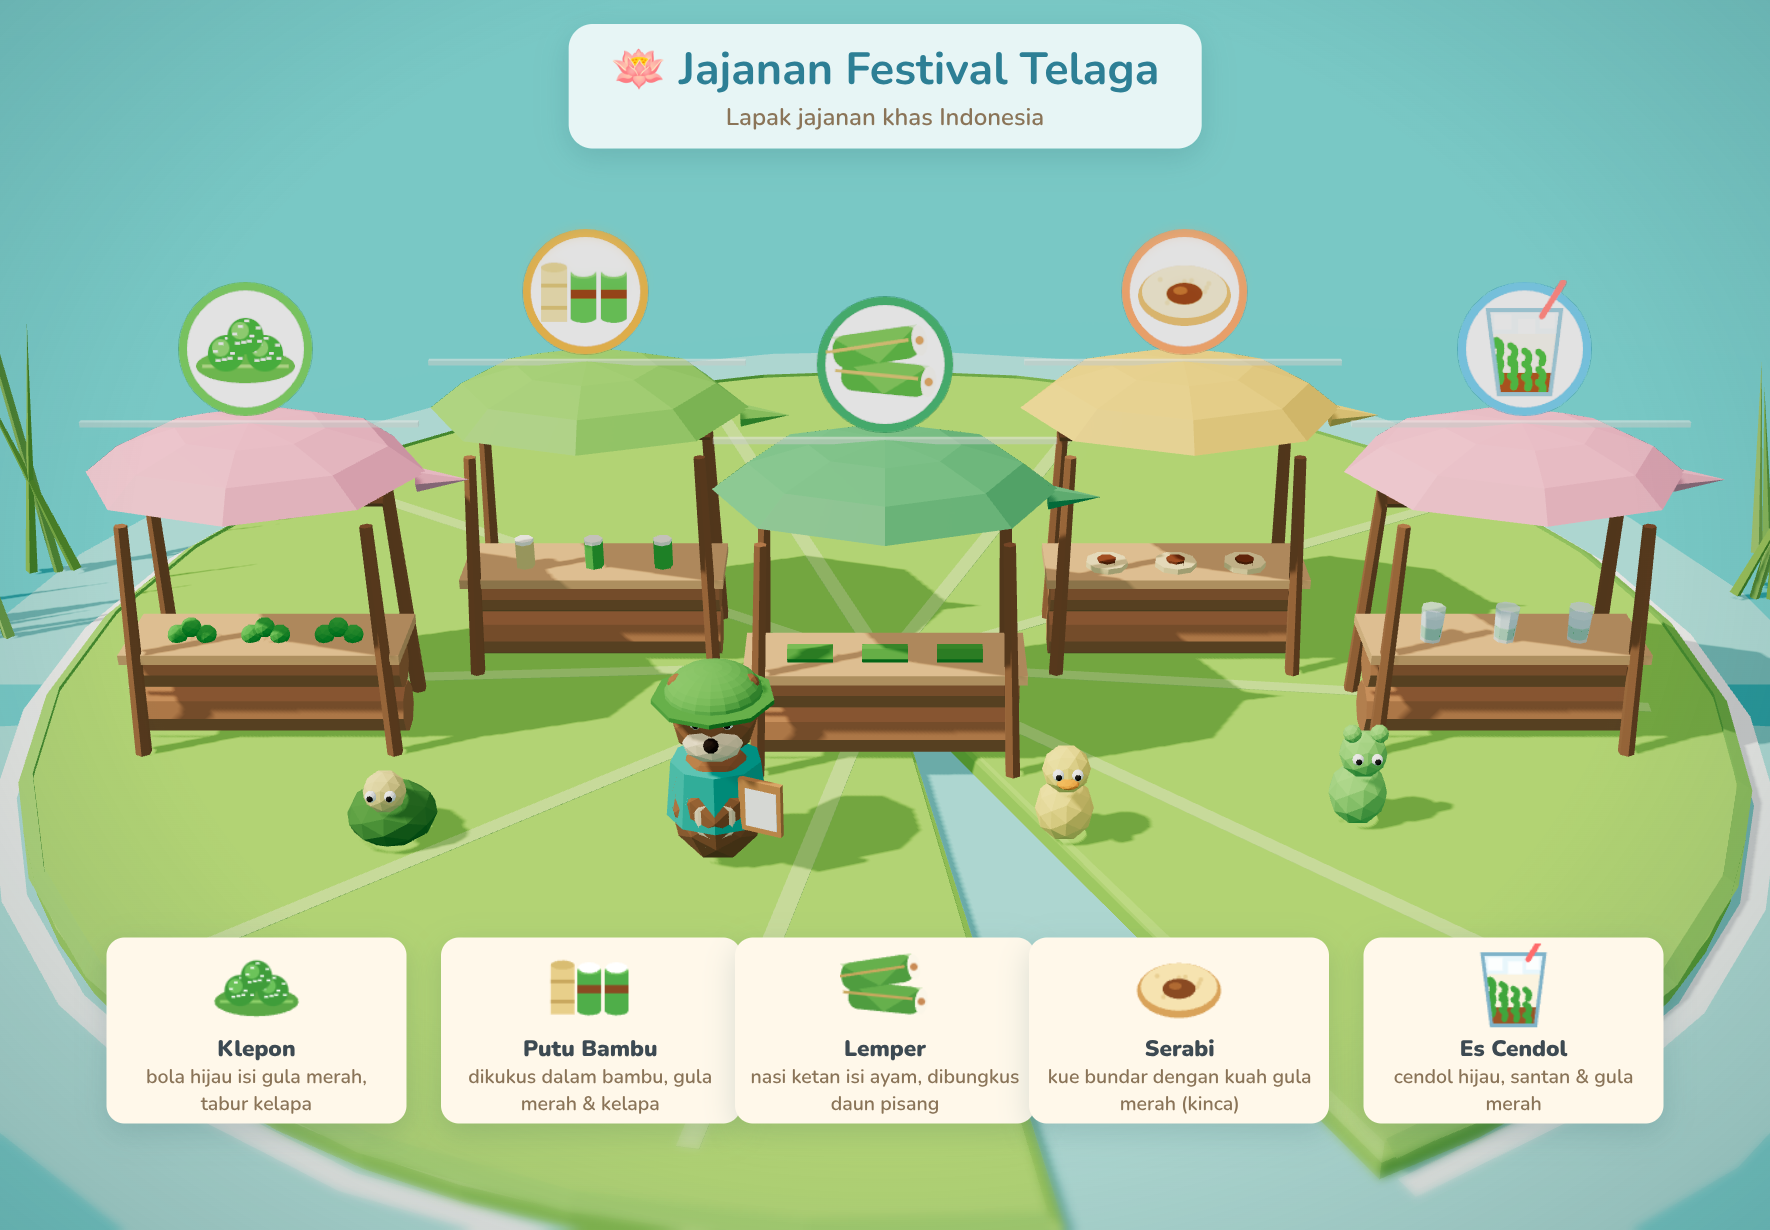
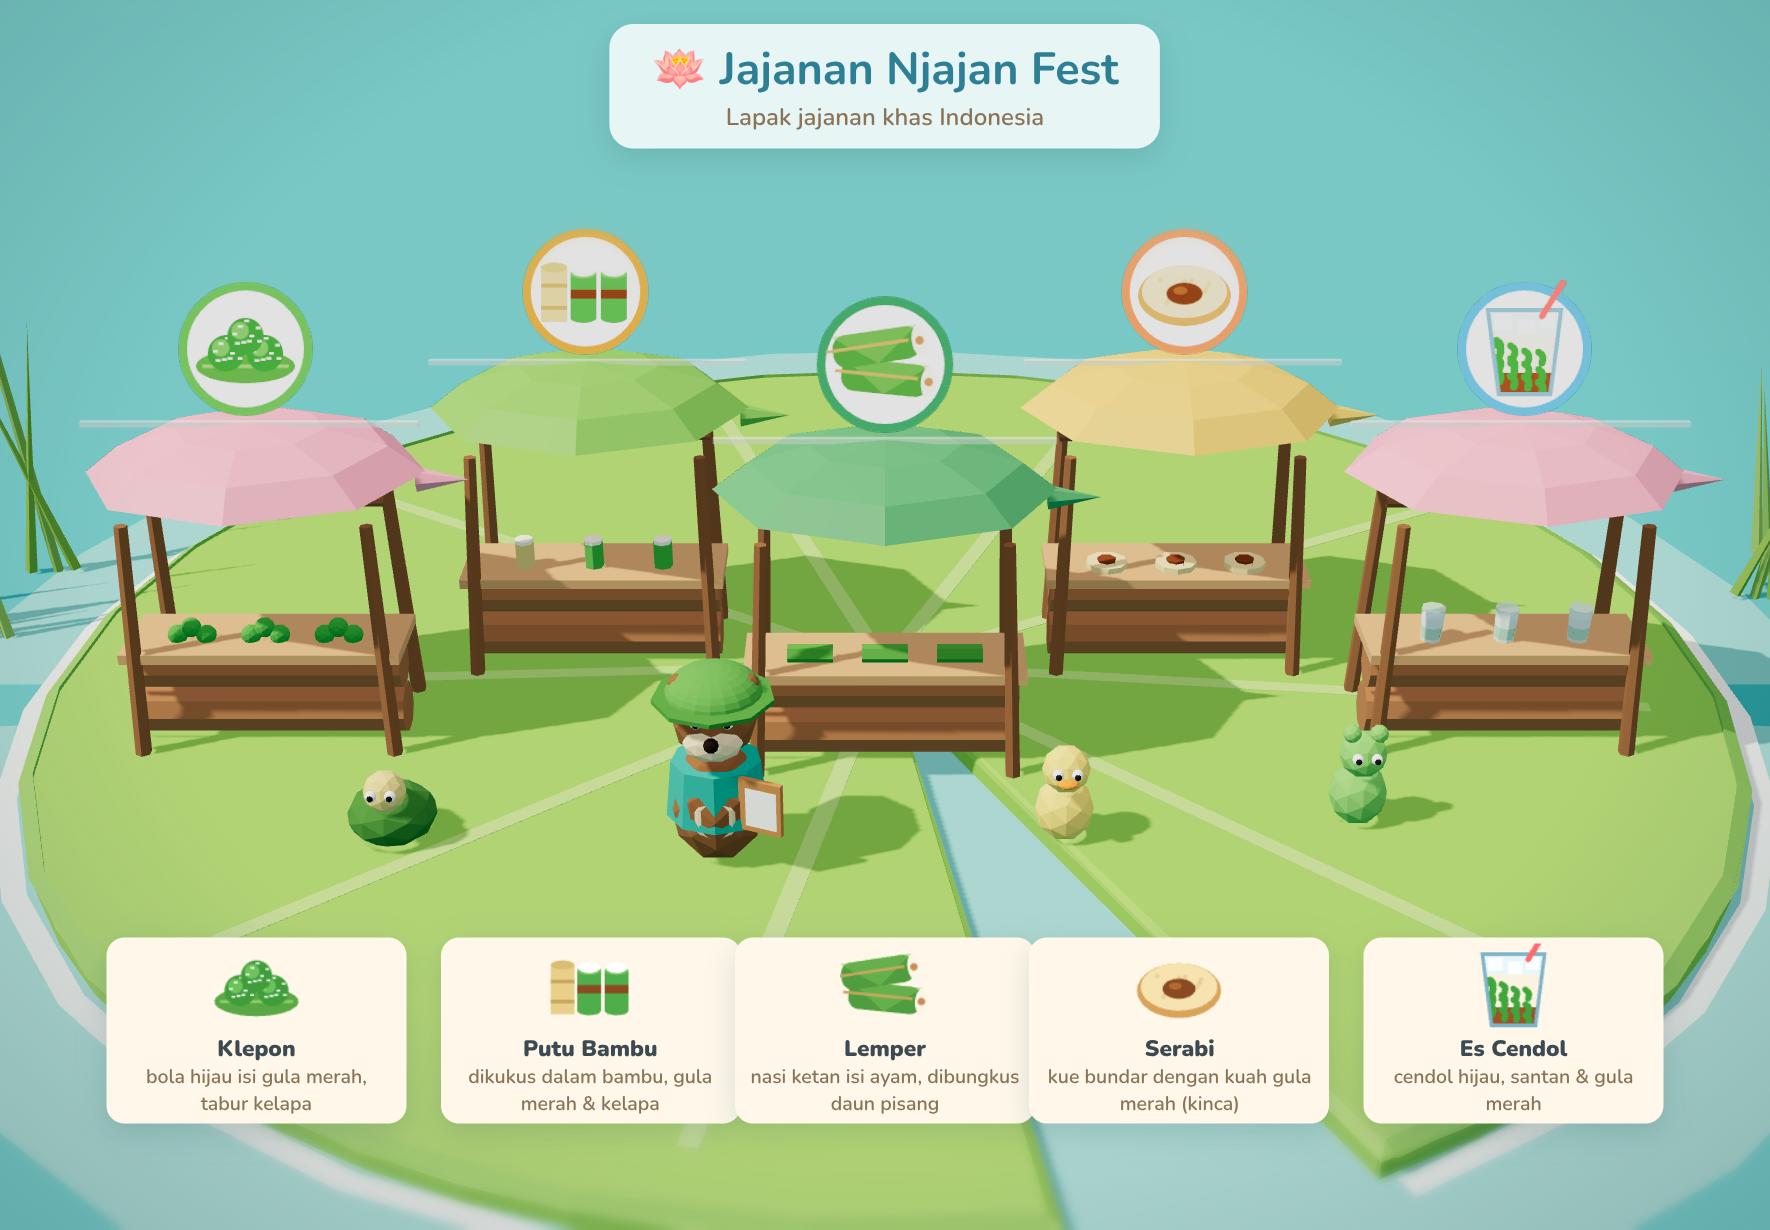
Mockup: judul game jadi Njajan Fest + layar judul
Claude-Session: https://claude.ai/code/session_012A5oLvFCU8v62NfLHPHhyn

Changed region(s): [[0.3107, 0.0, 0.6836, 0.1236]]

diff --git a/mockup-festival/islanders.html b/mockup-festival/islanders.html
@@ -2,12 +2,16 @@
 <html lang="id">
 <head>
 <meta charset="utf-8">
-<title>Mockup — Festival Telaga di atas Daun Teratai</title>
+<title>Mockup — Njajan Fest</title>
 <link rel="stylesheet" href="https://fonts.googleapis.com/css2?family=Fredoka:wght@400;500;600;700&display=swap">
 <link rel="stylesheet" href="base.css">
 <link rel="stylesheet" href="https://fonts.googleapis.com/css2?family=Nunito:wght@600;700;800;900&display=swap">
 <style>
   .tabs { bottom: 160px !important; }
+  .logo { position: absolute; left: 50%; top: 40px; transform: translateX(-50%) rotate(-3deg); text-align: center; font-family: 'Fredoka', 'Nunito', sans-serif; line-height: .9; }
+  .logo .l1 { font-size: 112px; font-weight: 700; color: #fff; -webkit-text-stroke: 10px #e0703a; paint-order: stroke fill; text-shadow: 0 10px 0 #b9541f, 0 16px 30px rgba(0,0,0,.25); letter-spacing: 2px; }
+  .logo .l2 { font-size: 86px; font-weight: 700; color: #ffd84f; -webkit-text-stroke: 9px #3f9a62; paint-order: stroke fill; text-shadow: 0 8px 0 #2d7448, 0 14px 26px rgba(0,0,0,.25); margin-top: -6px; transform: rotate(4deg); }
+  .logo .sub { display: inline-block; margin-top: 18px; background: rgba(255,255,255,.88); border-radius: 999px; padding: 6px 20px; font-family: 'Nunito'; font-weight: 800; font-size: 20px; color: #3d4a52; transform: rotate(3deg); }
   body { font-family: 'Nunito', 'Fredoka', sans-serif; color: #3d4a52; background: #cdeeea; }
   #tilt-top, #tilt-bot { position: absolute; left: 0; right: 0; pointer-events: none; backdrop-filter: blur(3px); -webkit-backdrop-filter: blur(3px); }
   #tilt-top { top: 0; height: 200px; mask-image: linear-gradient(#000, transparent); -webkit-mask-image: linear-gradient(#000, transparent); }
@@ -503,7 +507,7 @@ if (SCREEN === 'venue') {
   cam.position.set(0, 26, 22); cam.lookAt(0, 0, -1); cam.fov = 34; cam.updateProjectionMatrix(); cam.updateMatrixWorld();
   leafBoat(6.5, 11, ['bebek', 'kodok', 'udang'], 0.3);
   render();
-  el(`<b>🪷 Festival Telaga</b><small>Venue di atas daun teratai raksasa</small>`, 'card title');
+  el(`<b>🪷 Njajan Fest</b><small>Venue di atas daun teratai raksasa</small>`, 'card title');
   mat(-3.4, PADY + 2.6, -2.6, '🌿 Lapak ranting', 'atap daun / kelopak / daun kering');
   mat(9.4, PADY + 3.4, -3.4, '🪷 Panggung bunga teratai', 'lampu kunang-kunang');
   mat(0, PADY + 2.0, -0.2, '💧 Tugu embun', 'titik kumpul');
@@ -580,7 +584,7 @@ if (SCREEN === 'tokoh') {
   cam.fov = 28; cam.updateProjectionMatrix();
   cam.position.set(0, 7.5, 15.5); cam.lookAt(0, -0.5, 0.2); cam.updateMatrixWorld();
   render();
-  el(`<b>🪷 Festival Telaga — pilih tokohmu</b><small>Tiap tokoh punya kekuatan berbeda. Coba semuanya! (Asisten: Kiko si katak · kalau pilih Lumi: Capung Cici)</small>`, 'card title');
+  el(`<b>🪷 Njajan Fest — pilih tokohmu</b><small>Tiap tokoh punya kekuatan berbeda. Coba semuanya! (Asisten: Kiko si katak · kalau pilih Lumi: Capung Cici)</small>`, 'card title');
   const opts = [
     ['Tiko si Berang-berang', 'Si Tukang Ranting', '🪵 <b>Hemat Bangun</b>: lapak, bangku & jembatan ranting lebih murah 1 🪙', '⚡ <b>Bangun Kilat</b>: sekali per festival, perbaiki & pindahkan lapak dalam sekejap, atau bangun jembatan ke daun baru gratis', '🪙 Jago mengejar UNTUNG', '#2bb3a3'],
     ['Bebi si Anak Bebek', 'Si Ramah', '💛 <b>Sapaan Hangat</b>: tamu lebih sabar mengantre, tidak cepat kesal', '⚡ <b>Kwek Undangan</b>: sekali per festival, panggil rombongan perahu daun, +5 tamu datang', '🐸 Jago mengejar PENGUNJUNG', '#ff6b6b'],
@@ -635,6 +639,16 @@ if (SCREEN === 'jurus') {
     btn('⚡', 'Lompat Kilat', 'terpakai ✔');
   }
 }
+if (SCREEN === 'judul') {
+  venue('festival'); crowd(40, 4);
+  leafBoat(5.6, 9.5, ['bebek', 'kodok', 'udang'], 0.3); leafBoat(-6.5, 6.5, ['kura', 'ikan'], 0.6);
+  heroOtter(-1.6, 4.4, 2.2).rotation.y = 0.3; heroDuck(0.2, 5.0, 2.2); heroFrog(1.9, 4.6, 2.2).rotation.y = -0.3;
+  cam.position.set(0, 13, 17); cam.lookAt(0, 0, 0.5); cam.updateMatrixWorld();
+  render();
+  el(`<div class="logo"><div class="l1">Njajan</div><div class="l2">Fest</div><div class="sub">Pesta jajanan di Kerajaan Telaga</div></div>`, '');
+  el('▶ Ketuk untuk mulai', 'go', 'left:50%;right:auto;transform:translateX(-50%);bottom:40px;font-size:28px;padding:14px 34px');
+  el('versi 1', '', 'position:absolute;right:16px;bottom:10px;color:#fff;font-weight:800;text-shadow:0 1px 4px rgba(0,0,0,.4)');
+}
 if (SCREEN === 'jajan') {
   scene.fog = null;
   pad(0, 0, 6.2, -Math.PI / 2 + 0.3);
@@ -645,7 +659,7 @@ if (SCREEN === 'jajan') {
   heroOtter(-1.1, 2.6, 2.0); critter('bebek', 1.2, PADY, 2.4, 1.8); critter('kodok', 3.2, PADY, 2.2, 1.8); critter('kura', -3.3, PADY, 2.4, 1.8);
   cam.fov = 30; cam.updateProjectionMatrix(); cam.position.set(0, 8.5, 15.5); cam.lookAt(0, 0.6, 0); cam.updateMatrixWorld();
   render();
-  el(`<b>🪷 Jajanan Festival Telaga</b><small>Lapak jajanan khas Indonesia</small>`, 'card title');
+  el(`<b>🪷 Jajanan Njajan Fest</b><small>Lapak jajanan khas Indonesia</small>`, 'card title');
   const info = [['Klepon', 'bola hijau isi gula merah, tabur kelapa'], ['Putu Bambu', 'dikukus dalam bambu, gula merah & kelapa'], ['Lemper', 'nasi ketan isi ayam, dibungkus daun pisang'], ['Serabi', 'kue bundar dengan kuah gula merah (kinca)'], ['Es Cendol', 'cendol hijau, santan & gula merah']];
   info.forEach(([n, d], k) => { const p = project(xs[k], 0, zs[k] + 1.2); el(`<img src="${foodURL(L[k][0], 72)}" style="width:60px;height:60px;display:block;margin:0 auto"><b>${n}</b><small>${d}</small>`, 'mat', `left:${p.x}px;top:625px;width:200px;white-space:normal;text-align:center;transform:translate(-50%,0)`); });
 }
